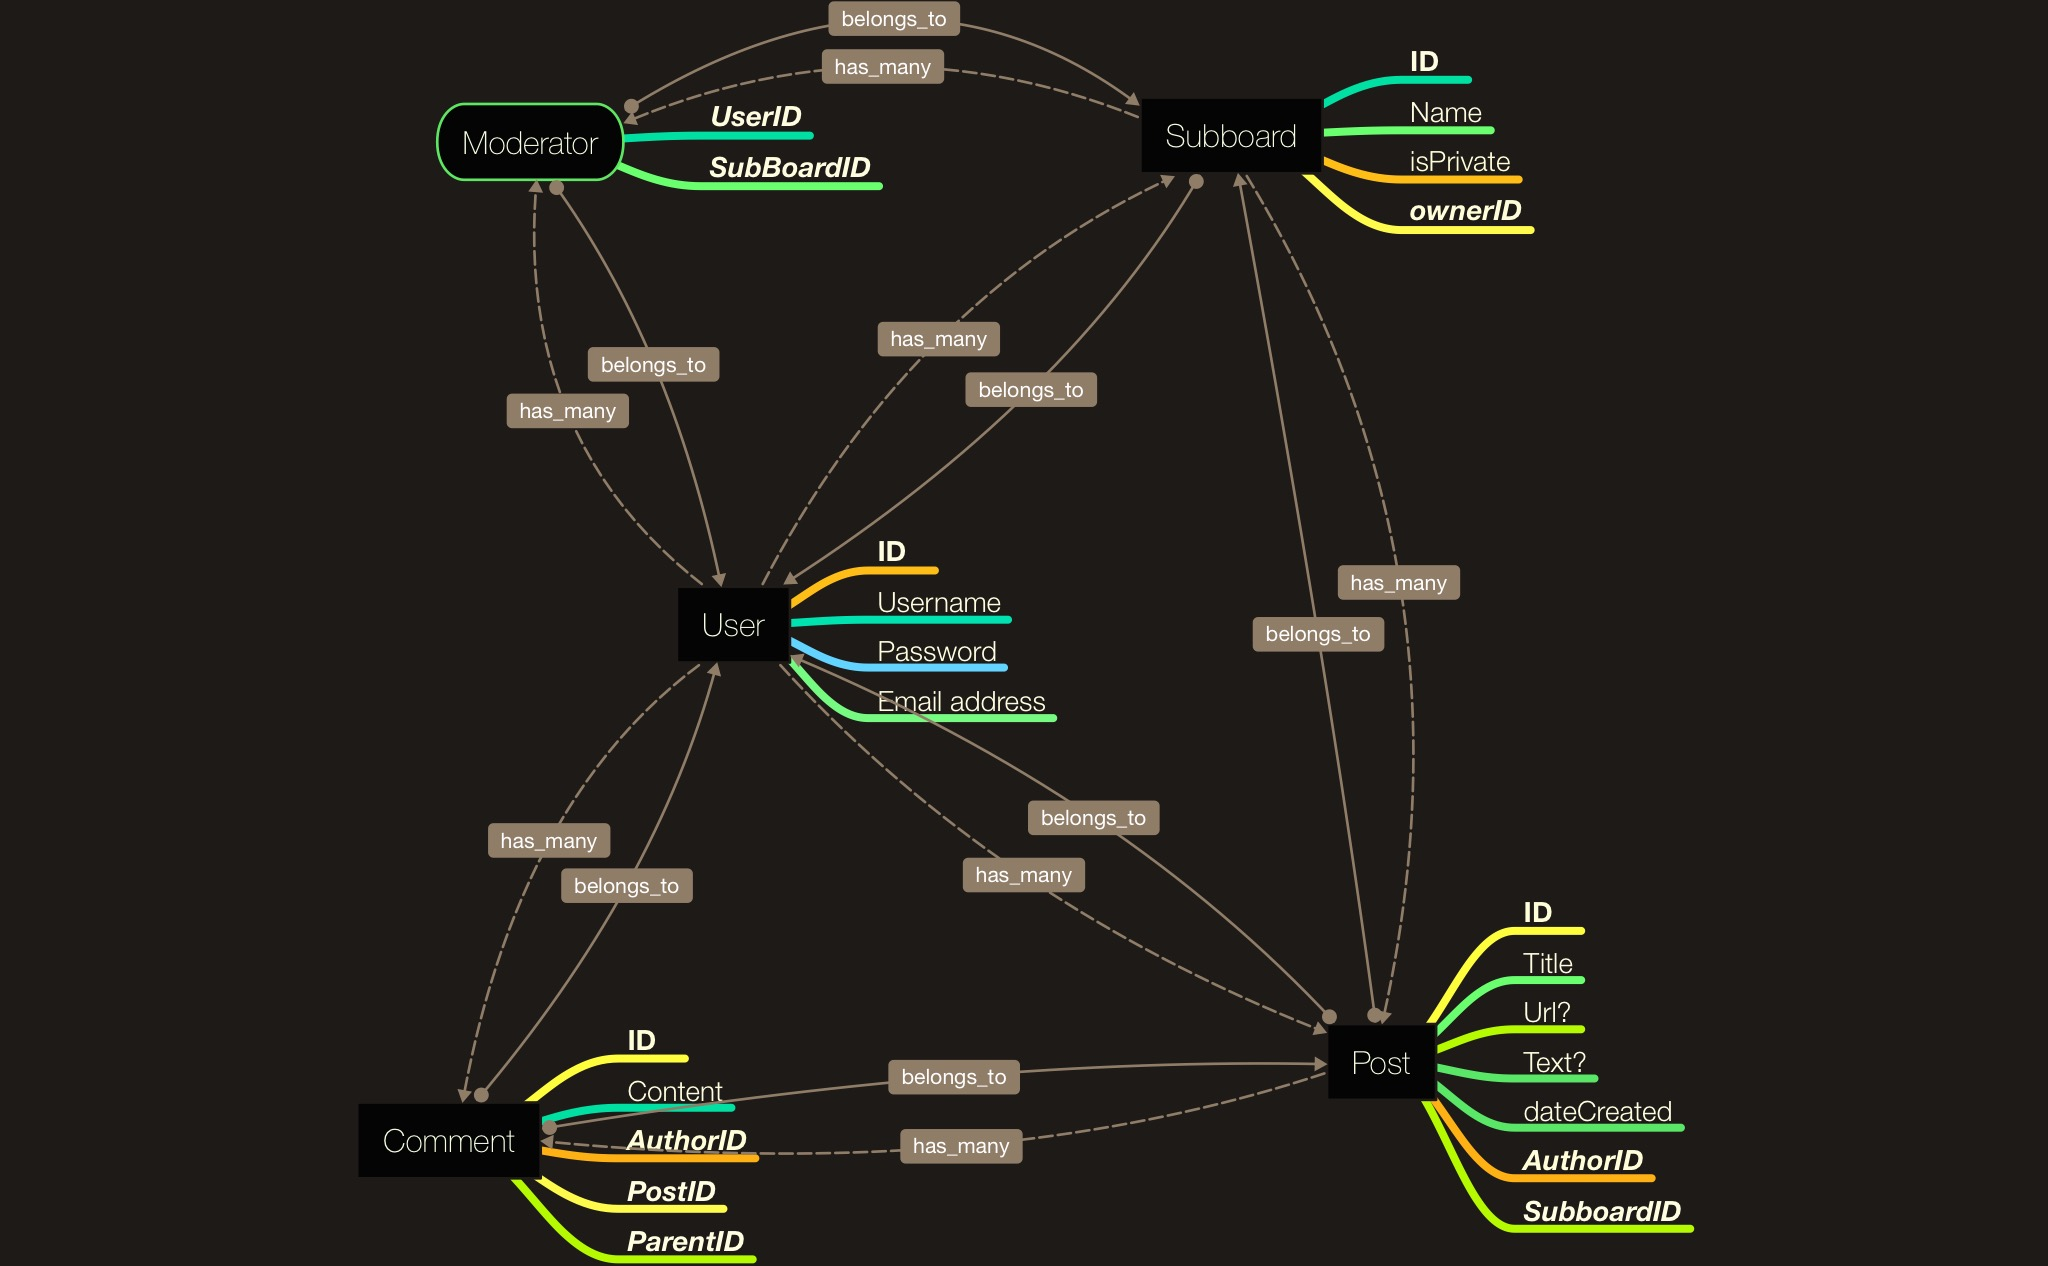
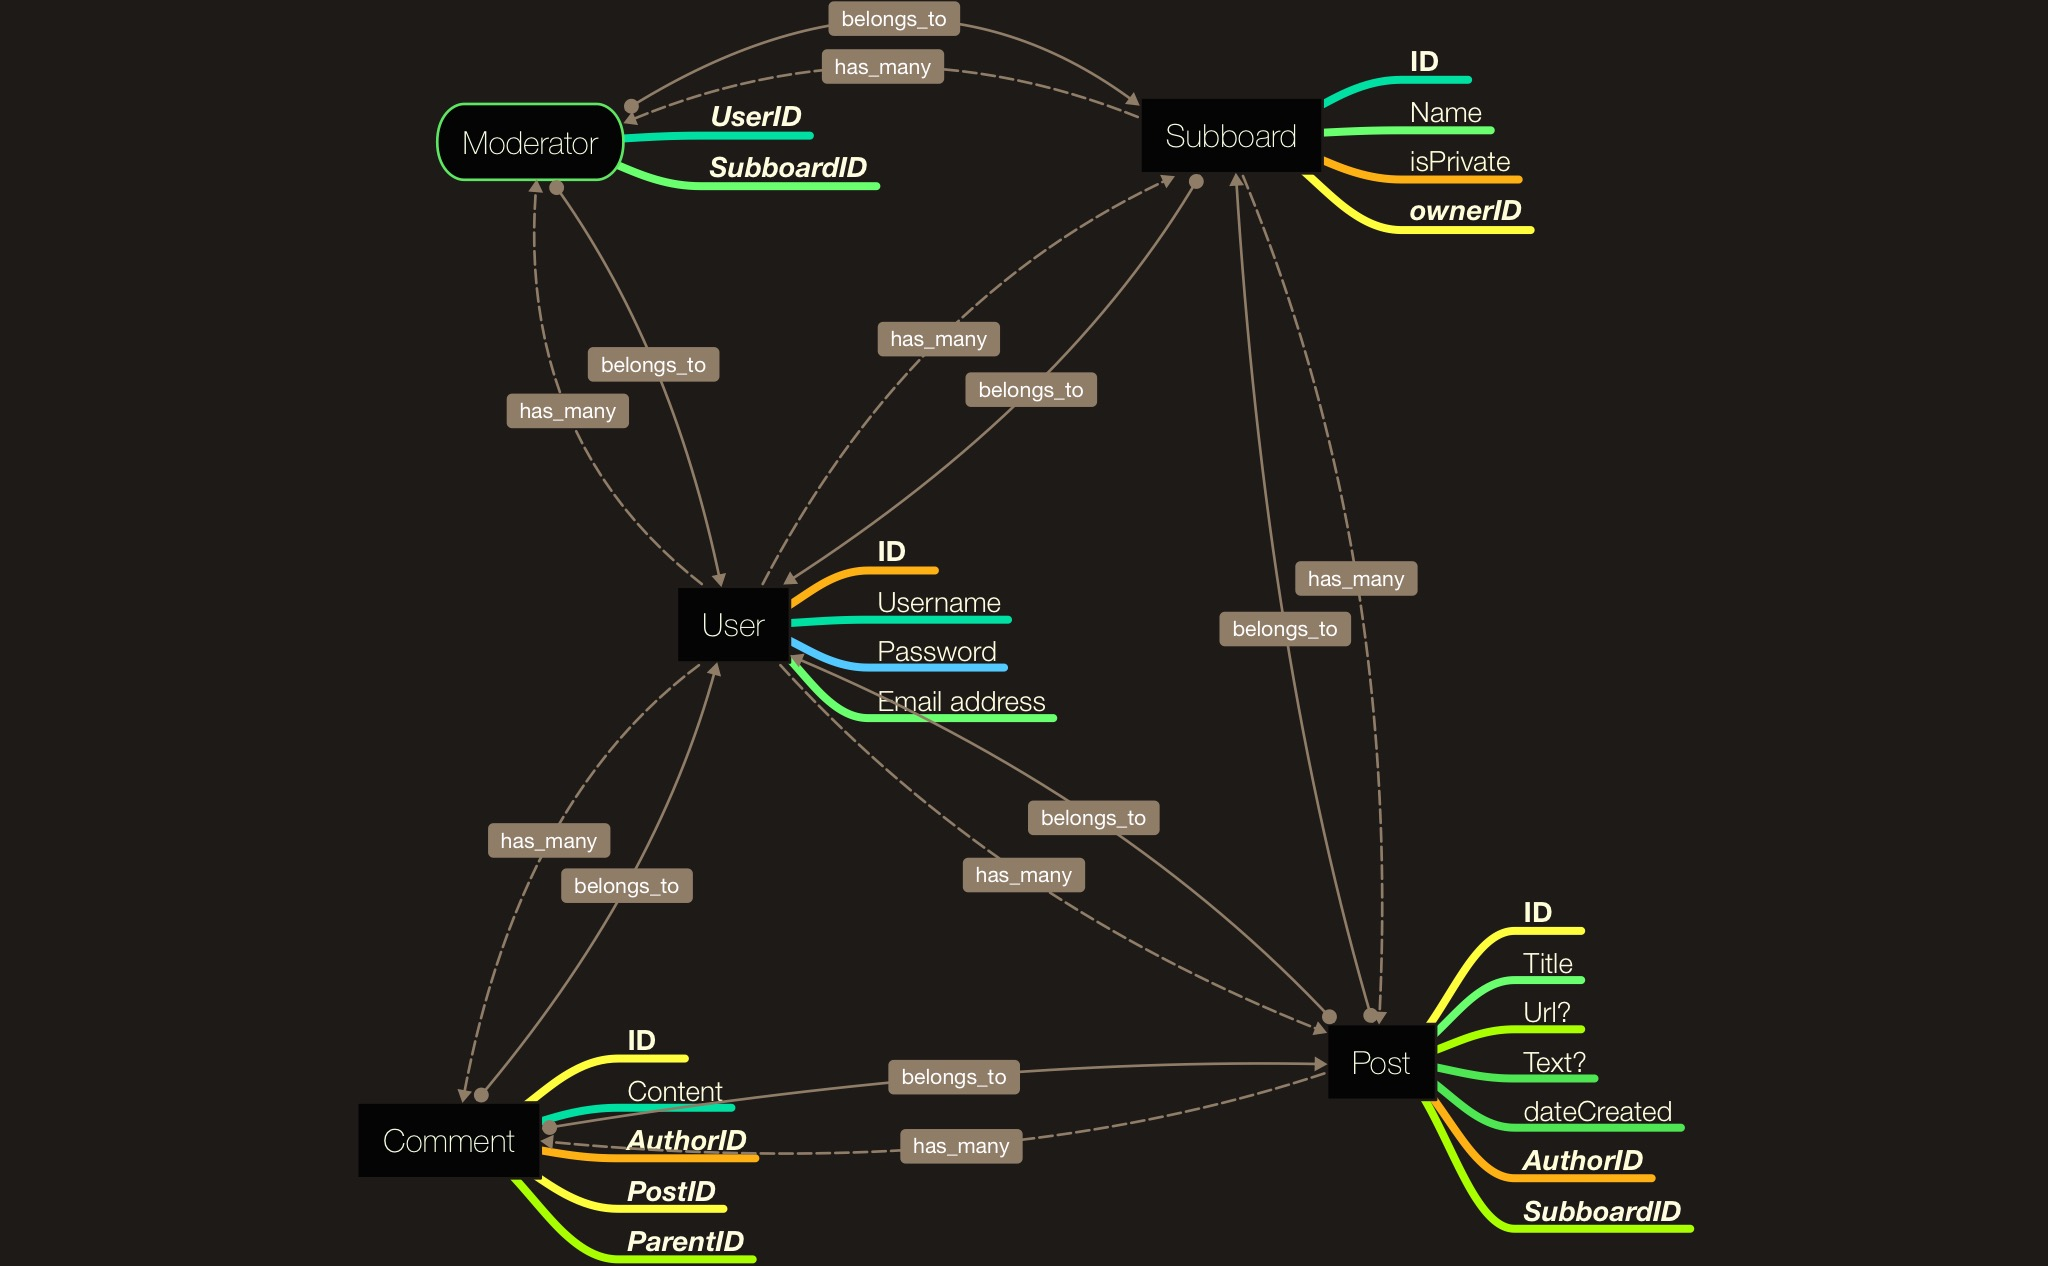
Generate Moderator model

diff --git a/app/models/subboard.rb b/app/models/subboard.rb
@@ -1,6 +1,6 @@
 class Subboard < ActiveRecord::Base
-  before_save :downcase_name
-  before_save :remove_spaces_for_name
+  before_save :downcase_name!
+  before_save :remove_spaces_for_name!
 
   belongs_to :user
 
@@ -14,11 +14,11 @@ class Subboard < ActiveRecord::Base
 
   private
 
-    def downcase_name
+    def downcase_name!
       self.name.downcase!
     end
 
-    def remove_spaces_for_name
+    def remove_spaces_for_name!
       self.name.delete!(' ')
     end
 

diff --git a/app/models/user.rb b/app/models/user.rb
@@ -2,7 +2,7 @@ class User < ActiveRecord::Base
 
   has_many :subboards, dependent: :destroy
 
-  before_save :downcase_email
+  before_save :downcase_email!
   validates :username, presence: true,
                        length: { maximum: 50, minimum: 5 },
                        uniqueness: { case_sensitive: false }
@@ -14,7 +14,7 @@ class User < ActiveRecord::Base
 
   private
 
-    def downcase_email
+    def downcase_email!
       self.email.downcase!
     end
 

diff --git a/db/schema.rb b/db/schema.rb
@@ -21,7 +21,6 @@ ActiveRecord::Schema.define(version: 20160225222110) do
     t.datetime "updated_at", null: false
   end
 
-  add_index "subboards", ["user_id", "created_at"], name: "index_subboards_on_user_id_and_created_at"
   add_index "subboards", ["user_id"], name: "index_subboards_on_user_id"
 
   create_table "users", force: :cascade do |t|

diff --git a/db/migrate/20160226225555_create_moderators.rb b/db/migrate/20160226225555_create_moderators.rb
@@ -1,0 +1,10 @@
+class CreateModerators < ActiveRecord::Migration
+  def change
+    create_table :moderators do |t|
+      t.references :user, index: true, foreign_key: true
+      t.references :subboard, index: true, foreign_key: true
+
+      t.timestamps null: false
+    end
+  end
+end

diff --git a/app/models/moderator.rb b/app/models/moderator.rb
@@ -1,0 +1,9 @@
+class Moderator < ActiveRecord::Base
+
+  belongs_to :user
+  belongs_to :subboard
+
+  validates_associated :user
+  validates_associated :subboard
+
+end

diff --git a/db/migrate/20160225222110_create_subboards.rb b/db/migrate/20160225222110_create_subboards.rb
@@ -7,6 +7,5 @@ class CreateSubboards < ActiveRecord::Migration
 
       t.timestamps null: false
     end
-    add_index :subboards, [:user_id, :created_at]
   end
 end

diff --git a/test/models/moderator_test.rb b/test/models/moderator_test.rb
@@ -1,0 +1,7 @@
+require 'test_helper'
+
+class ModeratorTest < ActiveSupport::TestCase
+  # test "the truth" do
+  #   assert true
+  # end
+end
